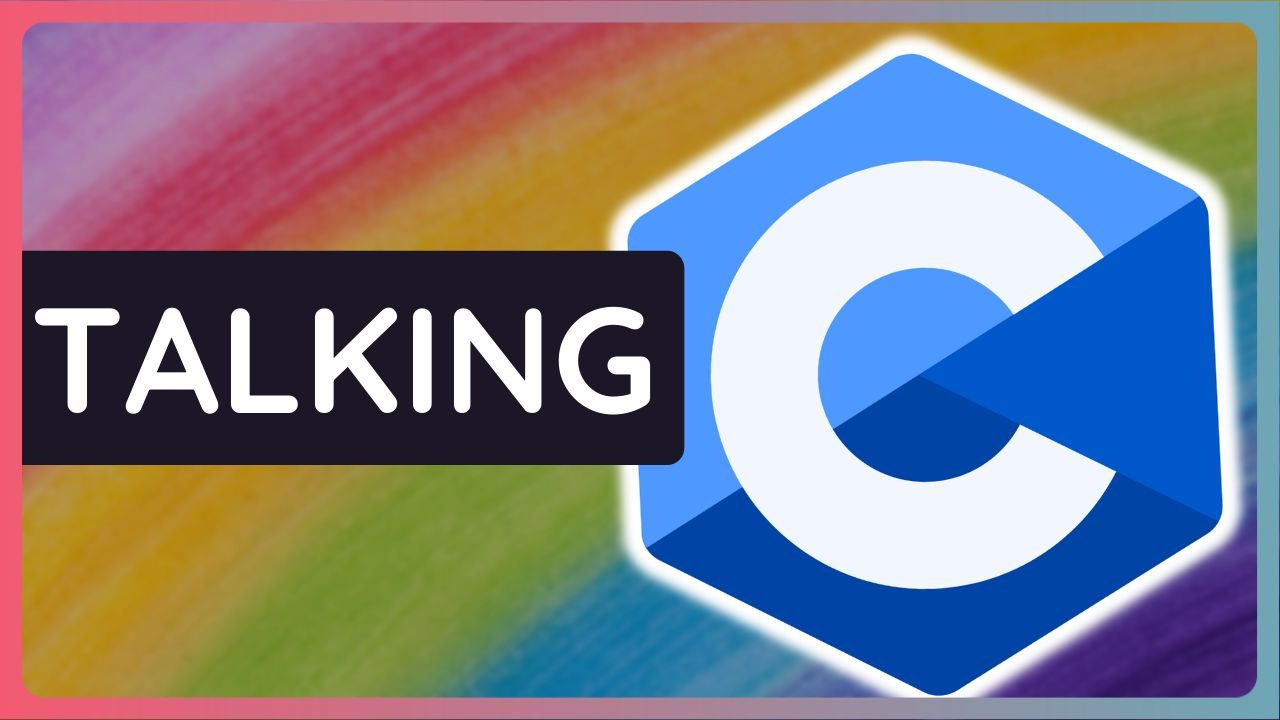
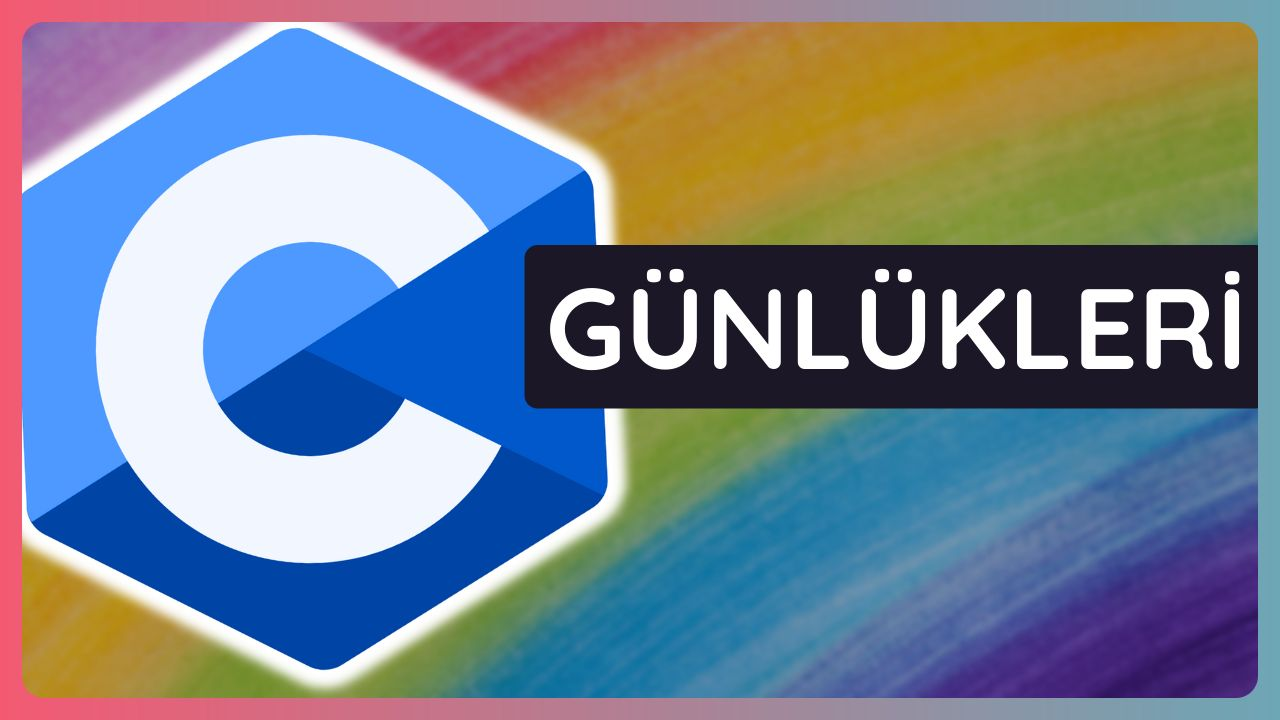
c günlükleri

diff --git a/_posts/2024-02-17-c-gunlukleri.md b/_posts/2024-02-17-c-gunlukleri.md
@@ -1,0 +1,64 @@
+---
+# License: CC-BY-SA-4.0.
+title: "C Günlükleri"
+excerpt: "C programlama dili hakkındaki yazılarımla oluşturacağım seriyi tanıtıyorum."
+image: /assets/img/24/8.jpg
+#imageyt: sO_Sdf09DiY
+toc: true
+axseq: 8
+published: true
+tags:
+  - tr
+---
+
+Bir elektronik mühendisi olarak gömülü sistemler dahil olmak üzere çeşitli
+alanlarda çalışıyorum. C dili de çalıştığım projelerde sık kullandığım
+programlama dillerinden biri. **C Günlükleri** isimli bu seride C ile ilgili
+yazılarımı toplamaya karar verdim.
+
+Bu seride temel kavramlardan başlayıp ilerlemeyi düşünüyorum. Vurgulamak isterim
+ki **ben bir C uzmanı değilim.** Ayrıca bütün gün C ile de uğraşmıyorum. 2024
+yılı itibariyle meslekteki 12. yılımdayım ve amatör olarak uğraştığım zamanı da
+sayarsak yaklaşık 15-20 yıldır C bir şekilde hayatımda. Ama genel olarak bir
+şeyle fazla vakit geçirmiş olmanız sizi o konuda uzman yapmaz, yıllarca aynı
+seviyede kalmış olabilirsiniz. Bu yüzden C dilindeki hakimiyetimi sürekli
+arttırmaya çalışıyorum. Bir konudaki bilgi birikimini ve uzmanlığı arttırmanın
+en iyi yollarından birinin de o konuda içerik üretmek olduğuna inanıyorum.
+
+Kişilik olarak biraz takıntılı biriyimdir. Bu doğal olarak çalıştığım konulara
+da yansıyor. O yüzden bu seride (ürettiğim tüm içeriklerde olduğu gibi) sizlere
+olabildiğince doğru bilgiler aktarmaya çalışacağım. Elbette bu hiç hata
+yapmayacağım anlamına gelmiyor. Eğer serideki yazılarda hatalar fark ederseniz,
+bunları yazılara yorum yazarak ya da doğrudan bana ulaşarak iletirseniz
+gerçekten çok memnun olurum.
+
+Planım her ne kadar temellerden başlayıp ilerlemek olsa da bu serinin bir eğitim
+serisi olmadığını ve herhangi bir şekilde C bilmeyen birine C'yi öğretmeyi
+amaçlamadığını belirtmek isterim. **Bir eğitmen değilim ve sizlere C öğretmek
+gibi bir iddiam yok.** Yine de C'yi öğrenen biri iseniz yazıların sizler için
+faydalı olacağına eminim. Eğer gerçek bir C kursu arıyorsanız Kaan Aslan (C ve
+Sistem Programcıları Derneği, CSD) ya da Necati Ergin tarafından verilen
+dersleri almanızı öneririm. Bu kurslar ile ilgili görüşlerimi dile getirmiştim:
+
+{% include ax_single.html reccmode="single" reccyear="23" reccaxseq="15" %}
+
+Bu seride temel olarak kendi tarzımda, C ile konulardan, mümkün olduğunca
+mantıksal bir sırada bahsetmeyi hedefliyorum. Hazırsanız gelin başlayalım!
+
+## Yazılar
+
+Bu seride aksini belirtmediğim sürece **C99** standardını temel alacağım.
+
+Sıra ile okumanızı tavsiye ederim (bazı yazılar İngilizce'dir).
+
+<!-- markdownlint-capture -->
+<!-- markdownlint-disable -->
+{% assign cgunlukleri_posts = site.posts | where_exp:"post", "post.tags contains 'cgunlukleri'" | sort: 'date' %}
+<ul>
+{% for post in cgunlukleri_posts %}
+  <li>
+    <a href="{{ post.url | relative_url }}">{{ post.title }}</a>
+  </li>
+{% endfor %}
+</ul>
+<!-- markdownlint-restore -->

diff --git a/_posts/2023-12-16-a-brief-history-of-c-programming-language.md b/_posts/2023-12-16-a-brief-history-of-c-programming-language.md
@@ -7,12 +7,13 @@ image: /assets/img/23/12.jpg
 published: true
 tags:
   - en
-  - talkingc
+  - cgunlukleri
 #canonical_url: 'https://asynx.dev/c-struct-padding-packed'
 modified_date: 2024-02-17
 ---
 
-> ℹ This post is part of the [Talking C]({% post_url 2024-02-17-talking-c %}) series.
+> ℹ 🇹🇷 Bu yazı, [C Günlükleri]({% post_url 2024-02-17-c-gunlukleri %}) serisinde
+> yer almaktadır.
 
 C, is a pretty old language. It was developed during the UNIX project. The
 development of UNIX led to the creation of C, and in turn, C played a
@@ -331,7 +332,8 @@ development of key technologies.
 - 2023-11-25. Corrections and additions to *UNIX and C*.
 - 2024-02-17. Rewritten and reorganized form scratch
 
-**The next post in the [Talking C]({% post_url 2024-02-17-talking-c %}):**
+**🇹🇷 [C Günlükleri]({% post_url 2024-02-17-c-gunlukleri %}) serisindeki bir
+sonraki yazı:**
 
 {% include ax_single.html reccmode="single" reccyear="23" reccaxseq="13" %}
 

diff --git a/_posts/2023-12-20-properties-of-c.md b/_posts/2023-12-20-properties-of-c.md
@@ -7,18 +7,17 @@ image: /assets/img/23/13.jpg
 published: true
 tags:
   - en
-  - talkingc
+  - cgunlukleri
 #canonical_url: 'https://asynx.dev/c-struct-padding-packed'
 #modified_date: 2024-02-17
 ---
 
 <!-- markdownlint-capture -->
 <!-- markdownlint-disable -->
-> ℹ This post is part of the [Talking C]({% post_url 2024-02-17-talking-c %})
-> series. I recommend also checking out the
-> [previous post]({% post_url 2023-12-16-a-brief-history-of-c-programming-language %})
-> in the series for
-> additional insights.
+> ℹ 🇹🇷 Bu yazı, [C Günlükleri]({% post_url 2024-02-17-c-gunlukleri %}) serisinde
+> yer almaktadır. Eğer okumadıysanız öncelikle
+> [önceki yazıyı]({% post_url 2023-12-16-a-brief-history-of-c-programming-language %})
+> okumanızı tavsiye ederim.
 <!-- markdownlint-restore -->
 
 **What kind of language is C?** Programming languages can be categorized from
